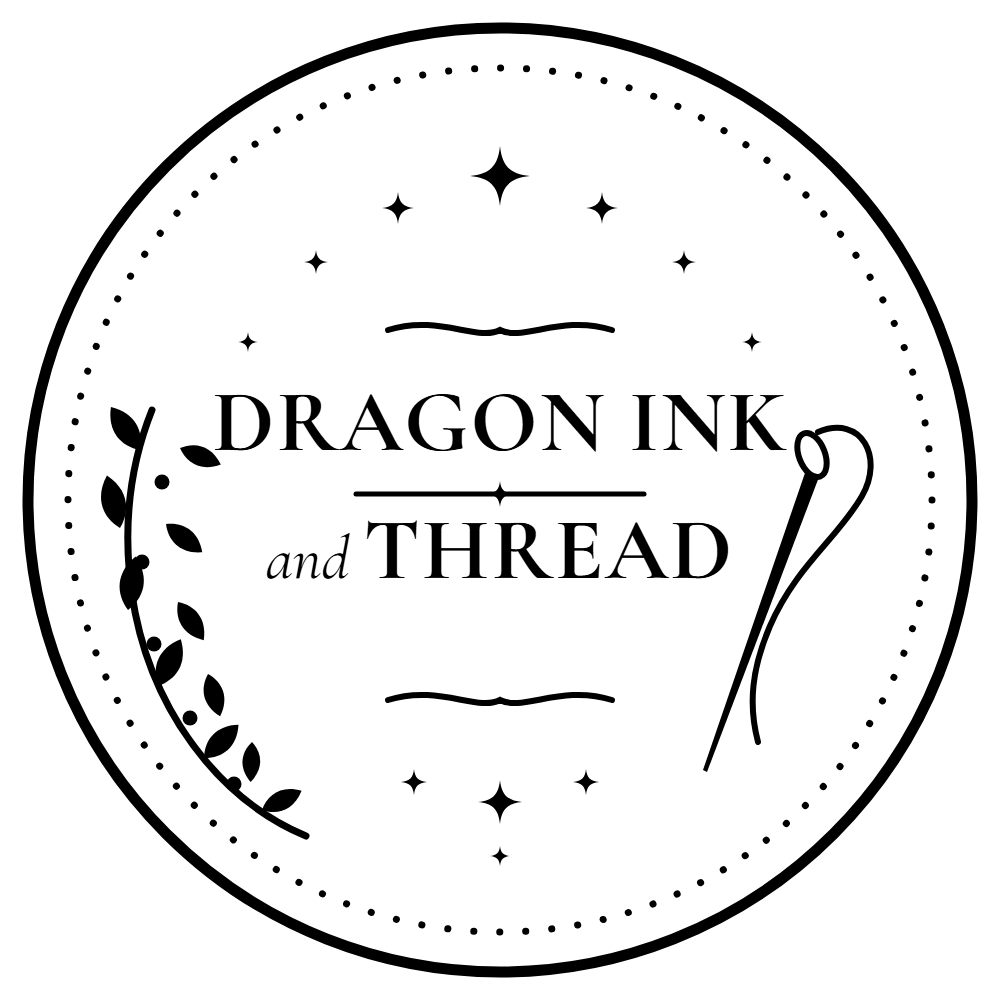
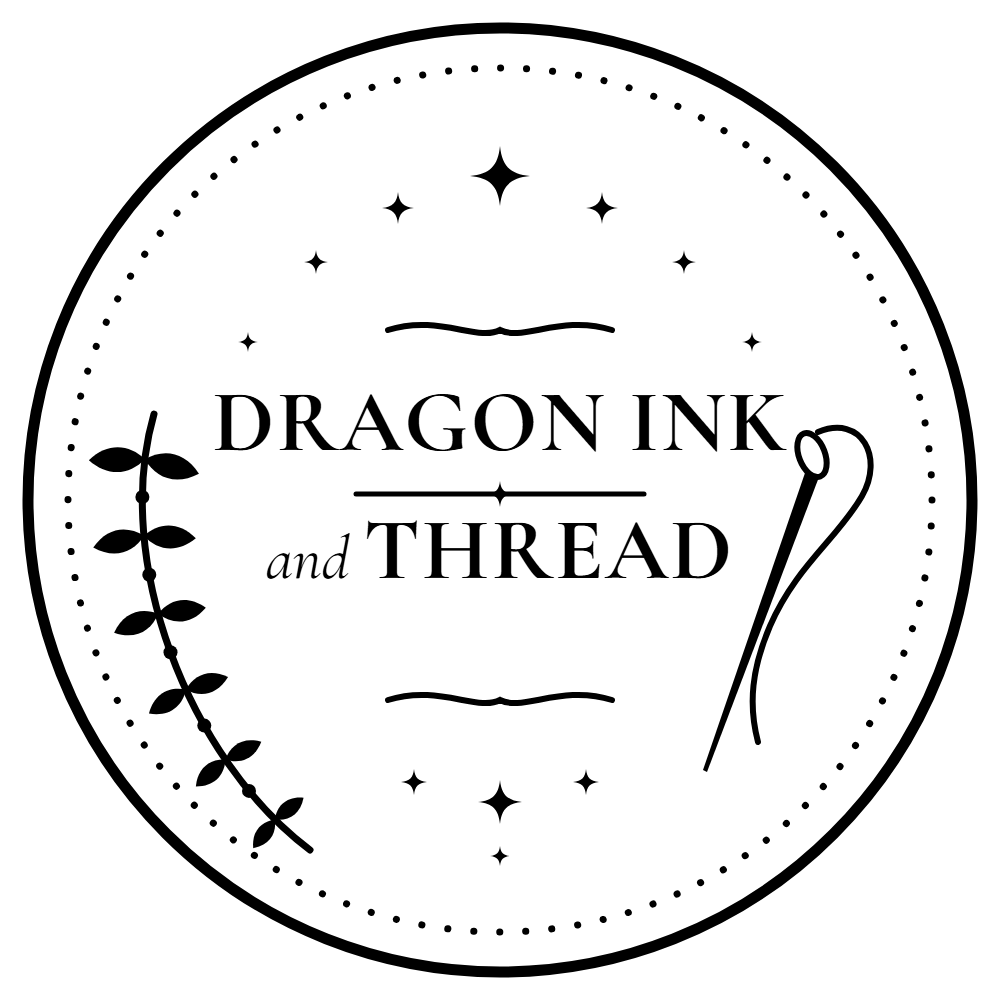
Generate the sprig along its stem instead of placing it by hand
v1 and v2 positioned every leaf by hand and it read as a clump: the angles
did not agree with the curve, the pairs were not symmetric, and the sizes
jumped about.

The stem is now one cubic bezier. Leaves are sampled along it, each pair set
from the TANGENT at that point, and the size tapers toward the tip. Berries
sit on the stem between the pairs so they read as part of it rather than
scattered alongside.

Spread went 58 degrees to 82. At 58 the leaves lay along the stem and
tangled with it; near-perpendicular is what reads as a sprig at a glance.
Both numbers are in the file so the next person does not retry 58.

Changed region(s): [[0.093, 0.403, 0.31, 0.868]]

diff --git a/tools/print-kit/build-stamp-badge.js b/tools/print-kit/build-stamp-badge.js
@@ -37,25 +37,39 @@ const leaf = (x, y, deg, len) =>
   '<path transform="translate(' + x + ',' + y + ') rotate(' + deg + ') scale(' + (len / 34) + ')" d="' +
   "M0,0 C9,-9 11,-22 0,-34 C-11,-22 -9,-9 0,0 Z" + '"/>';
 
-// leaves + berries along the left-hand stem
-const stemD = "M186,352 C146,452 156,576 214,668 C250,724 292,758 340,778";
-let sprig = '<path d="' + stemD + '" fill="none" stroke="#000" stroke-width="7" stroke-linecap="round"/>';
-const LEAVES = [
-  [174, 392, -34, 52], [214, 390, 112, 44],
-  [154, 470, -14, 54], [200, 466, 128, 46],
-  [162, 552,   8, 54], [212, 544, 146, 46],
-  [192, 628,  26, 52], [242, 616, 164, 44],
-  [238, 700,  46, 48], [286, 684, 182, 40],
-  [296, 752,  64, 44],
-];
-for (const [x, y, d, l] of LEAVES) sprig += leaf(x, y, d, l);
-const BERRIES = [[196, 424], [176, 504], [188, 586], [224, 660], [268, 726]];
-// a short answering spray at the needle's foot, so the lower-right is not bare
-let spray = '<path d="M648,792 C690,772 722,744 742,708" fill="none" stroke="#000" stroke-width="6" stroke-linecap="round"/>';
-for (const [x, y, d, l] of [[664, 776, 214, 40], [676, 800, 62, 34], [706, 748, 206, 38], [722, 772, 54, 32]])
-  spray += leaf(x, y, d, l);
-spray += '<circle cx="690" cy="770" r="6.5"/><circle cx="730" cy="726" r="6"/>';
-for (const [x, y] of BERRIES) sprig += '<circle cx="' + x + '" cy="' + y + '" r="7.5"/>';
+// THE SPRIG IS GENERATED ALONG THE STEM, NOT HAND-PLACED.
+// v1 and v2 positioned every leaf by hand and it read as a clump: the angles did not
+// agree with the curve, the pairs were not symmetric, and the sizes jumped about.
+// Here the stem is one cubic bezier, leaves are sampled along it, each pair is set from
+// the TANGENT at that point, and the size tapers toward the tip the way a real sprig does.
+const P = [[188, 356], [146, 502], [222, 700], [344, 792]];   // cubic control points
+const bez = (t, i) => {
+  const u = 1 - t;
+  return u * u * u * P[0][i] + 3 * u * u * t * P[1][i] + 3 * u * t * t * P[2][i] + t * t * t * P[3][i];
+};
+const tan = (t, i) => {
+  const u = 1 - t;
+  return 3 * u * u * (P[1][i] - P[0][i]) + 6 * u * t * (P[2][i] - P[1][i]) + 3 * t * t * (P[3][i] - P[2][i]);
+};
+
+let sprig = '<path d="M' + P[0] + " C" + P[1] + " " + P[2] + " " + P[3] +
+  '" fill="none" stroke="#000" stroke-width="7" stroke-linecap="round"/>';
+
+const PAIRS = 6;
+const SPREAD = 82;        // degrees off the tangent, each way - near perpendicular.
+// 58 was tried first and the leaves lay along the stem instead of standing out from it.
+for (let k = 0; k < PAIRS; k++) {
+  const t = 0.1 + (k / (PAIRS - 1)) * 0.8;
+  const x = bez(t, 0), y = bez(t, 1);
+  const deg = Math.atan2(tan(t, 1), tan(t, 0)) * 180 / Math.PI;
+  const len = 56 - k * 4;                       // taper toward the tip
+  sprig += leaf(x, y, deg + 90 - SPREAD, len) + leaf(x, y, deg + 90 + SPREAD, len);
+}
+// berries sit ON the stem, between the pairs, so they read as part of it
+for (let k = 0; k < PAIRS - 1; k++) {
+  const t = 0.1 + ((k + 0.5) / (PAIRS - 1)) * 0.8;
+  sprig += '<circle cx="' + bez(t, 0).toFixed(1) + '" cy="' + bez(t, 1).toFixed(1) + '" r="7"/>';
+}
 
 // the threaded needle, lower right
 const needle =
